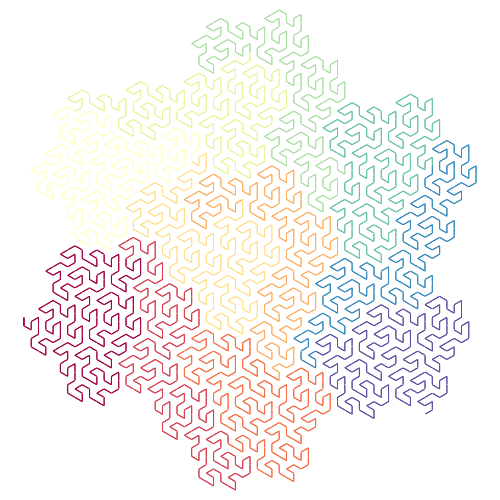
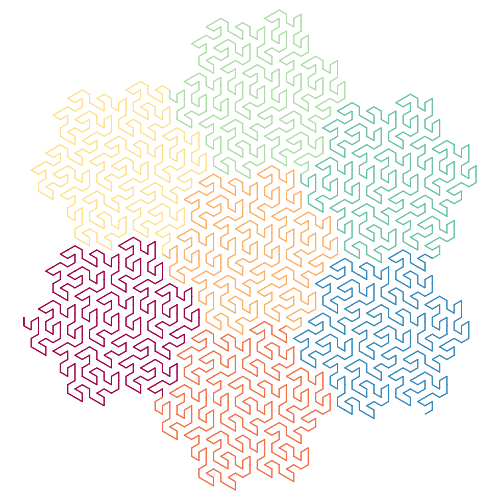
cleaned up code

diff --git a/drawings/mandelbrot.js b/drawings/mandelbrot.js
@@ -19,14 +19,31 @@ class Mandelbrot extends Drawing {
      * Draws the image.
      */
     draw() {
-        const ctx = this.canvas.getContext("2d");
-        ctx.fillStyle = "rgba(0, 0, 0, 1)";
+        // source: https://stackoverflow.com/questions/16500656/which-color-gradient-is-used-to-color-mandelbrot-in-wikipedia
+        const palette = [
+            lib.rgbColorToHex(66, 30, 15),
+            lib.rgbColorToHex(25, 7, 26),
+            lib.rgbColorToHex(9, 1, 47),
+            lib.rgbColorToHex(4, 4, 73),
+            lib.rgbColorToHex(0, 7, 100),
+            lib.rgbColorToHex(12, 44, 138),
+            lib.rgbColorToHex(24, 82, 177),
+            lib.rgbColorToHex(57, 125, 209),
+            lib.rgbColorToHex(134, 181, 229),
+            lib.rgbColorToHex(211, 236, 248),
+            lib.rgbColorToHex(241, 233, 191),
+            lib.rgbColorToHex(248, 201, 95),
+            lib.rgbColorToHex(255, 170, 0),
+            lib.rgbColorToHex(204, 128, 0),
+            lib.rgbColorToHex(153, 87, 0),
+            lib.rgbColorToHex(106, 52, 3)
+        ];
 
-        // color brewer spectral 11
-        const palette = ["#9e0142", "#d53e4f", "#f46d43", "#fdae61", "#fee08b", "#ffffbf", "#e6f598", "#abdda4", "#66c2a5", "#3288bd", "#5e4fa2"];
+        const pixelSize = 1;
+        const max_iteration = 800;
 
-        const pixelSize = 0.5;
-        const max_iteration = 500;
+
+        this.debugmax = 0;
 
         // for each pixel
         for (let px = 0, w = ~~(this.width); px <= w; px += pixelSize) {
@@ -62,19 +79,48 @@ class Mandelbrot extends Drawing {
                     iteration = iteration + 1 - nu;
                 }
 
-                let color1 = palette[~~(iteration)];
-                let color2 = palette[~~(iteration) + 1];
-
-                // iteration % 1 = fractional part of iteration.
-                let color = lib.colorLinearInterpolation(color1, color2, iteration % 1);
-
-                ctx.fillStyle = color;
-                ctx.fillRect(px, py, pixelSize, pixelSize);
+                // get color
+                this.ctx.fillStyle = this.getCachedColor(iteration, max_iteration, palette);
+                this.ctx.fillRect(px, py, pixelSize, pixelSize);
                 // use symmetry
-                ctx.fillRect(px, ~~(h - py), pixelSize, pixelSize);
+                this.ctx.fillRect(px, h - py, pixelSize, pixelSize);
             }
         }
 
         return this;
+    }
+
+    /**
+     * Use a cache to avaoid redundant color interpolation.
+     * @param {number} value value to map to a color
+     * @param {number} max maximum possible value
+     * @param {string[]} palette color palette
+     */
+    getCachedColor(value, max, palette) {
+        // crate cache if not yet done
+        if (!this.colorCache) {
+            this.colorCache = new Map();
+        }
+
+        if (this.colorCache.has(value)) {
+            // cache lookup
+            return this.colorCache.get(value);
+        } else {
+            // calculate value
+            let color1 = palette[~~(value / max * (palette.length - 1))];
+            let color2 = palette[~~(value / max * (palette.length - 1)) + 1];
+            if (!color2) {
+                color2 = palette[palette.length - 1];
+            }
+
+            let fraction = (value / (max / palette.length));
+            if (fraction >= 1) {
+                fraction = 1;
+            }
+
+            let color = lib.colorLinearInterpolation(color1, color2, fraction);
+            this.colorCache.set(value, color);
+            return color;
+        }
     }
 }

diff --git a/lib.js b/lib.js
@@ -104,29 +104,25 @@ const lib = {
      * @param {number} fraction value in [0, 1] that represents the relative position between to interpolation points
      */
     colorLinearInterpolation(color1, color2, fraction) {
-        let rgb1 = this.hexColorToRGB(color1);
-        let rgb2 = this.hexColorToRGB(color2);
-
-        let resultRgb = {
-            r: rgb1.r * (1 - fraction) + rgb2.r * fraction,
-            g: rgb1.g * (1 - fraction) + rgb2.g * fraction,
-            b: rgb1.b * (1 - fraction) + rgb2.b * fraction
-        };
-
-        return this.rgbColorToHex({ r, g, b } = resultRgb);
-    },
-
-    /**
-     * Creates and returns a canvas object.
-     * @param {number} width width
-     * @param {number} height height
-     */
-    createCanvas(width, height) {
-        let canvas = document.createElement("canvas");
-        canvas.width = width;
-        canvas.height = height;
-        // document.getElementsByTagName("body")[0].appendChild(canvas);
-        return canvas;
+        if (fraction > 1 || fraction < 0) {
+            console.error(`fraction is not in [0, 1]: ${fraction}`);
+        }
+        try {
+            let rgb1 = this.hexColorToRGB(color1);
+            let rgb2 = this.hexColorToRGB(color2);
+            let resultRgb = {
+                r: Math.round(rgb1.r * (1 - fraction) + rgb2.r * fraction),
+                g: Math.round(rgb1.g * (1 - fraction) + rgb2.g * fraction),
+                b: Math.round(rgb1.b * (1 - fraction) + rgb2.b * fraction)
+            };
+            let { r, g, b } = resultRgb;
+            return this.rgbColorToHex(r, g, b);
+        } catch (error) {
+            console.error(error);
+            console.error("invalid colors:");
+            console.error(color1);
+            console.error(color2);
+        }
     },
 
     /**
@@ -178,20 +174,34 @@ const lib = {
      * @param {array[]} path points as [x, y]
      * @param {string[]} palette stroke style array
      */
-    drawPath(ctx, path, palette) {
-        // draw
+    drawPath(ctx, path, palette, interpolate = true) {
         let oldP = path[0];
         let i = 0;
+        let blocklength = path.length / palette.length;
         path.forEach(p => {
             ctx.beginPath();
             ctx.moveTo(oldP[0], oldP[1]);
             ctx.lineTo(p[0], p[1]);
             ctx.closePath();
+
             // change color while progressing
-            ctx.strokeStyle = palette[~~((i++ / path.length) * palette.length)];
+            let color1 = palette[~~(i / path.length * (palette.length - 1))];
+
+            if (interpolate) {
+                // interpolate intermediate colors
+                let color2 = palette[~~(i / path.length * (palette.length - 1)) + 1];
+                if (!color2) {
+                    color2 = palette[palette.length - 1];
+                }
+                let fraction = (i % blocklength) / blocklength;
+                ctx.strokeStyle = lib.colorLinearInterpolation(color1, color2, fraction);
+            } else {
+                ctx.strokeStyle = color1;
+            }
             ctx.stroke();
+
+            i++;
             oldP = p;
         });
     }
-
 }

diff --git a/drawings/yinyang.js b/drawings/yinyang.js
@@ -21,20 +21,18 @@ class YinYang extends Drawing {
    * Draws the image.
    */
   draw() {
-    const ctx = this.canvas.getContext("2d");
-
     const centerX = this.width / 2;
     const centerY = this.height / 2;
     const radius = Math.min(this.width, this.height) / 2 - this.margin;
 
-    lib.drawCircle(ctx, centerX, centerY, radius, "#000", "#000", 0, Math.PI);
-    lib.drawCircle(ctx, centerX, centerY, radius, "#fff", "#fff", Math.PI, 2 * Math.PI);
+    lib.drawCircle(this.ctx, centerX, centerY, radius, "#000", "#000", 0, Math.PI);
+    lib.drawCircle(this.ctx, centerX, centerY, radius, "#fff", "#fff", Math.PI, 2 * Math.PI);
 
-    lib.drawCircle(ctx, centerX - radius / 2, centerY, radius / 2, "#000", "#000");
-    lib.drawCircle(ctx, centerX + radius / 2, centerY, radius / 2, "#fff", "#fff");
+    lib.drawCircle(this.ctx, centerX - radius / 2, centerY, radius / 2, "#000", "#000");
+    lib.drawCircle(this.ctx, centerX + radius / 2, centerY, radius / 2, "#fff", "#fff");
 
-    lib.drawCircle(ctx, centerX - radius / 2, centerY, radius / 8, "#fff", "#fff");
-    lib.drawCircle(ctx, centerX + radius / 2, centerY, radius / 8, "#000", "#000");
+    lib.drawCircle(this.ctx, centerX - radius / 2, centerY, radius / 8, "#fff", "#fff");
+    lib.drawCircle(this.ctx, centerX + radius / 2, centerY, radius / 8, "#000", "#000");
 
     return this;
   }

diff --git a/drawings/gospercurve.js b/drawings/gospercurve.js
@@ -19,10 +19,8 @@ class GosperCurve extends Drawing {
      * Draws the image.
      */
     draw() {
-        const ctx = this.canvas.getContext("2d");
-
         // color brewer spectral 11
-        const palette = ["#9e0142", "#d53e4f", "#f46d43", "#fdae61", "#fee08b", "#ffffbf", "#e6f598", "#abdda4", "#66c2a5", "#3288bd", "#5e4fa2"];
+        const palette = ["#9e0142", "#f46d43", "#fdae61", "#fee08b", "#abdda4", "#66c2a5", "#3288bd", "#5e4fa2"];
         const level = 5;
 
         // get curve
@@ -51,13 +49,6 @@ class GosperCurve extends Drawing {
 
                     // add new point
                     path.push([currentX, currentY]);
-
-                    // update min and max
-                    // TODO: use lib
-                    minX = currentX < minX ? currentX : minX;
-                    minY = currentY < minY ? currentY : minY;
-                    maxX = currentX > maxX ? currentX : maxX;
-                    maxY = currentY > maxY ? currentY : maxY;
                     break;
 
                 case "+":
@@ -80,7 +71,7 @@ class GosperCurve extends Drawing {
         path = lib.rescaleAndCenter(path, this.width, this.height, this.margin);
 
         // draw
-        lib.drawPath(ctx, path, palette);
+        lib.drawPath(this.ctx, path, palette, false);
 
         return this;
     }

diff --git a/index.html b/index.html
@@ -15,10 +15,10 @@
   <script src="./drawings/dragoncurve.js"></script>
   <script src="./drawings/gospercurve.js"></script>
   <script src="./drawings/sierpinski.js"></script>
-  <script src="./init.js"></script>
 
   <style>
     body {
+      margin: 0px;
       background-color: #333;
       color: #eee;
       text-align: center;
@@ -37,9 +37,9 @@
 
       // const mandebrot = new Mandelbrot().init();
 
-      // const dragoncurve = new DragonCurve().init();
+      const dragoncurve = new DragonCurve().init();
 
-      // const gospercurve = new GosperCurve().init();
+      const gospercurve = new GosperCurve().init();
 
       // const sierpinski = new Sierpinski().init();
     }

diff --git a/drawings/dragoncurve.js b/drawings/dragoncurve.js
@@ -19,8 +19,6 @@ class DragonCurve extends Drawing {
      * Draws the image.
      */
     draw() {
-        const ctx = this.canvas.getContext("2d");
-
         // color brewer spectral 11
         const palette = ["#9e0142", "#d53e4f", "#f46d43", "#fdae61", "#fee08b", "#ffffbf", "#e6f598", "#abdda4", "#66c2a5", "#3288bd", "#5e4fa2"];
         const level = 10;
@@ -60,7 +58,7 @@ class DragonCurve extends Drawing {
         path = lib.rescaleAndCenter(path, this.width, this.height, this.margin);
 
         // draw
-        lib.drawPath(ctx, path, palette);
+        lib.drawPath(this.ctx, path, palette, false);
 
         return this;
     }

diff --git a/drawings/ornament.js b/drawings/ornament.js
@@ -23,7 +23,7 @@ class Ornament extends Drawing {
      * Draws the image.
      */
     draw() {
-        const ctx = this.canvas.getContext("2d");
+        const ctx = this.ctx;
         const cx = this.width / 2;
         const cy = this.height / 2;
 
